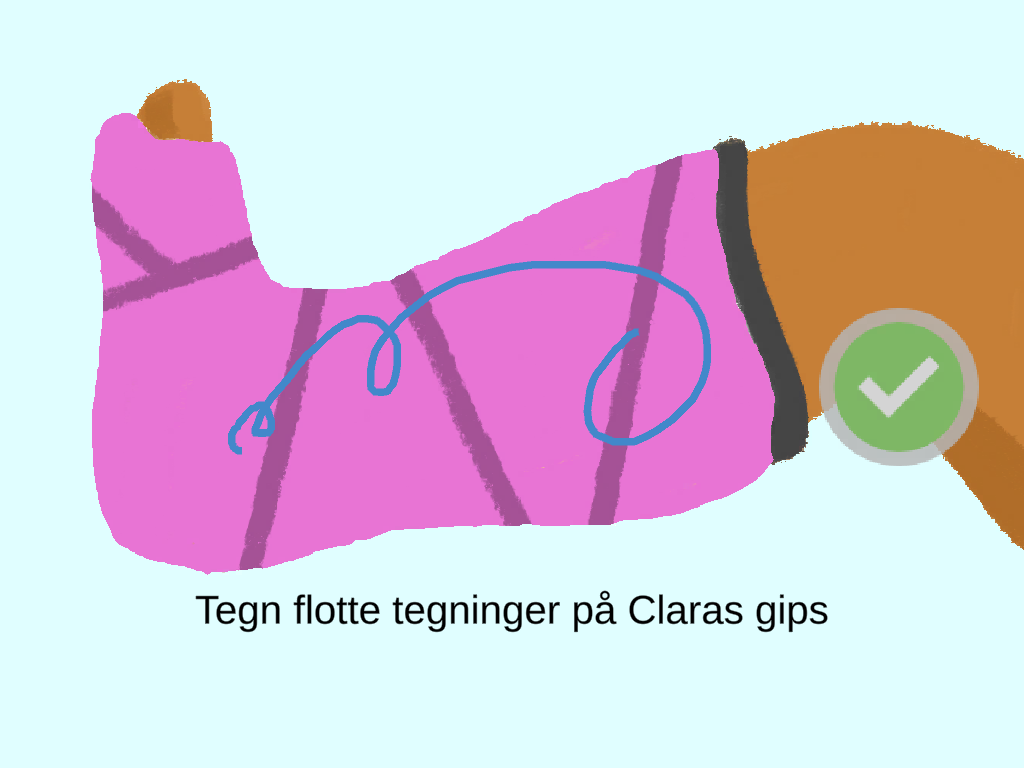
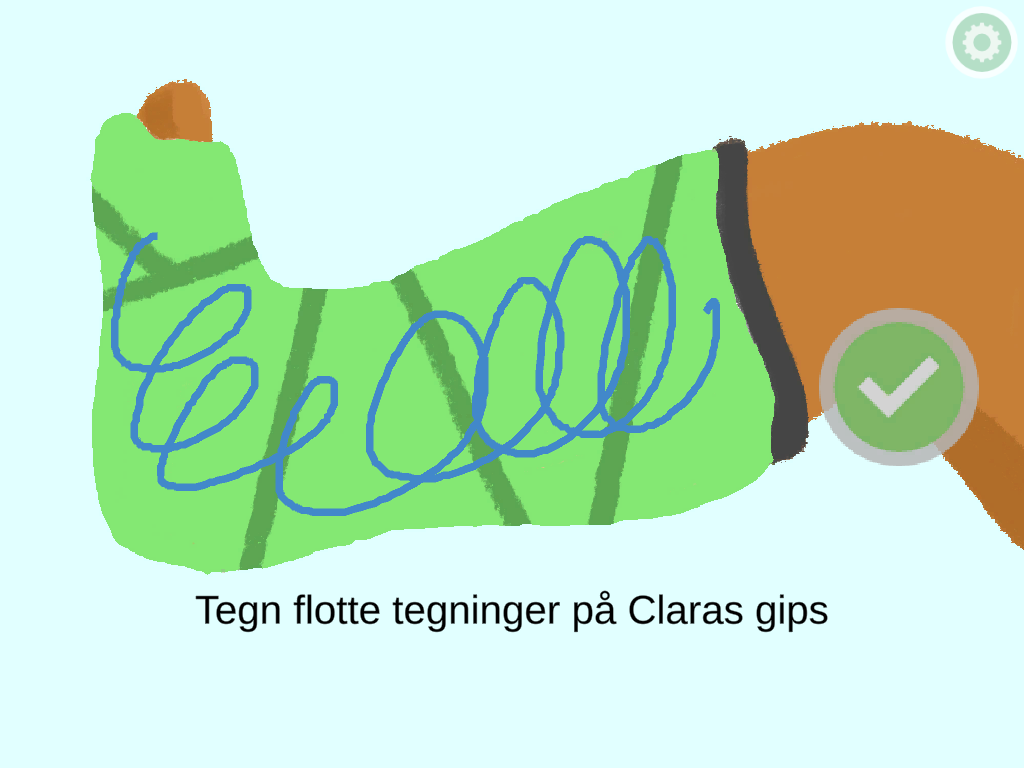
Add ScreenShot Loader

Changed region(s): [[0.0625, 0.125, 0.7812, 0.75], [0.9062, 0.0, 1.0, 0.0938]]

diff --git a/Code Jam/Assets/CodeJam_NathanSeanLittlefield/LoadScreenShot.cs b/Code Jam/Assets/CodeJam_NathanSeanLittlefield/LoadScreenShot.cs
@@ -1,0 +1,63 @@
+using System.Collections;
+using System.Collections.Generic;
+using System.IO;
+using UnityEngine;
+using UnityEngine.UI;
+
+public class LoadScreenShot : MonoBehaviour
+{
+    private PhoneCam PhoneCam;
+    private Texture2D newTexture;
+    [SerializeField] private GameObject bg;
+    [SerializeField] private RawImage Image;
+    [SerializeField] private string input;
+
+    private float wait_time = 2f;
+    // Start is called before the first frame update
+    void Start()
+    {
+        if(bg != null) PhoneCam = bg.GetComponent<PhoneCam>();
+        Rerender(input);
+    }
+
+    public void Rerender(string saveName)
+    {
+        var filePath = Application.dataPath;
+        string folderName = "/CodeJam_NathanSeanLittlefield/SavedScreenShots/";
+
+        if (PhoneCam)
+        {
+            StartCoroutine(wait(saveName));
+        }
+        else
+        {
+            if (File.Exists(filePath + folderName + saveName + ".png"))
+            {
+                byte[] data = File.ReadAllBytes(filePath + folderName + saveName + ".png");
+                newTexture = new Texture2D(1, 1);
+                ImageConversion.LoadImage(newTexture, data);
+
+                Image.texture = newTexture;
+            }
+        }
+    }
+
+    private IEnumerator wait(string saveName)
+    {
+        var filePath = Application.dataPath;
+        string folderName = "/CodeJam_NathanSeanLittlefield/SavedScreenShots/";
+
+        yield return new WaitForSeconds(wait_time);
+
+        if (PhoneCam.backcam != null) PhoneCam.backcam.Stop();
+
+        if (File.Exists(filePath + folderName + saveName + ".png"))
+        {
+            byte[] data = File.ReadAllBytes(filePath + folderName + saveName + ".png");
+            newTexture = new Texture2D(1, 1);
+            ImageConversion.LoadImage(newTexture, data);
+
+            PhoneCam.background.texture = newTexture;
+        }
+    }
+}

diff --git a/Code Jam/Assets/Scripts/PhoneCam/PhoneScan.cs b/Code Jam/Assets/Scripts/PhoneCam/PhoneScan.cs
@@ -8,12 +8,13 @@ public class PhoneScan : MonoBehaviour
     [SerializeField] private Animator scannerAnimator;
     [SerializeField] private LoadScene sceneMang;
     [SerializeField] private float maxAcceleration = 0.3f;//Max/Min range that the acceleration can be in
+    [SerializeField] private LoadScreenShot loadScreenShot;
     private int currentShakeCount = 0;
     private int maxShakes = 3;
 
     private float gravity = 0.98f; //earth garvity is around 9.82m/s^2 hench the 0.98f
 
-    private float shortwait = 1f; 
+    private float shortwait = 2f; 
     private float longwait = 5f;
 
     private string conditionName = "Scanning";
@@ -63,8 +64,9 @@ public class PhoneScan : MonoBehaviour
     private IEnumerator StartScan()
     {
         scannerAnimator.SetBool(conditionName, true);
-        yield return new WaitForSeconds(shortwait);
         yield return new WaitForSeconds(longwait);
+        loadScreenShot.Rerender("LegImage");
+        yield return new WaitForSeconds(shortwait);
         sceneMang.LoadNextScene();
     }
 }

diff --git a/Code Jam/Assets/Scripts/PhoneCam/PhoneCam.cs b/Code Jam/Assets/Scripts/PhoneCam/PhoneCam.cs
@@ -10,7 +10,7 @@ public class PhoneCam : MonoBehaviour
 {
 
     private bool camAvailable;
-    private WebCamTexture backcam;
+    public WebCamTexture backcam;
 
     public RawImage background;
     public AspectRatioFitter fit;
